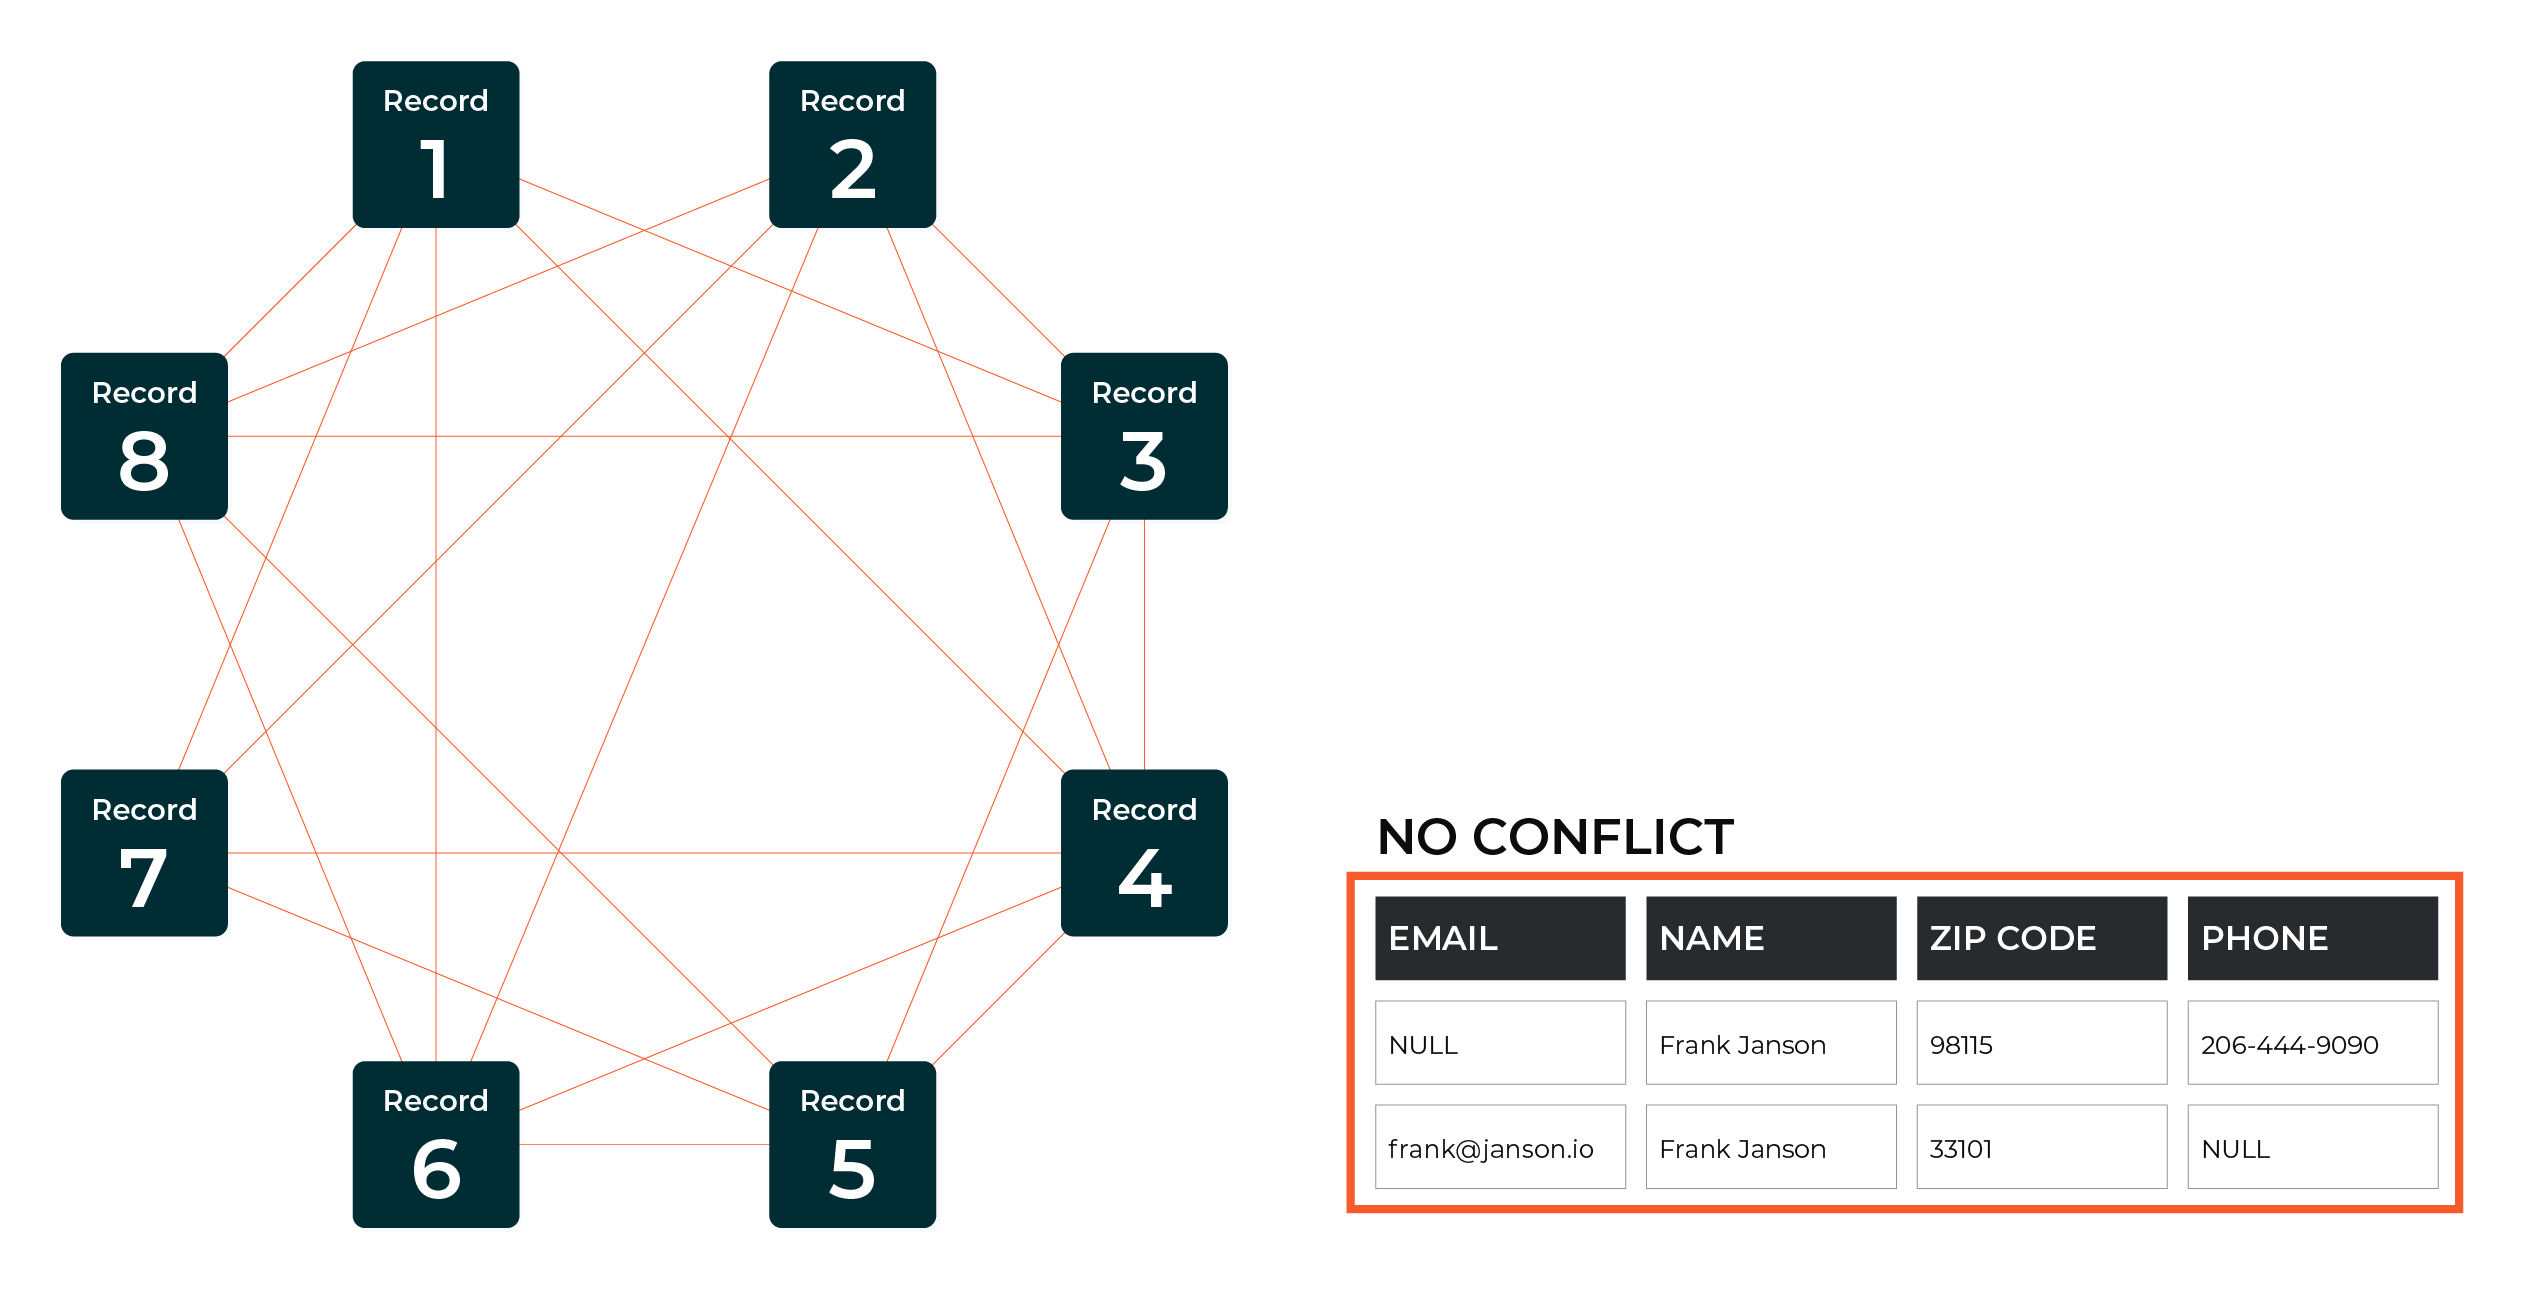
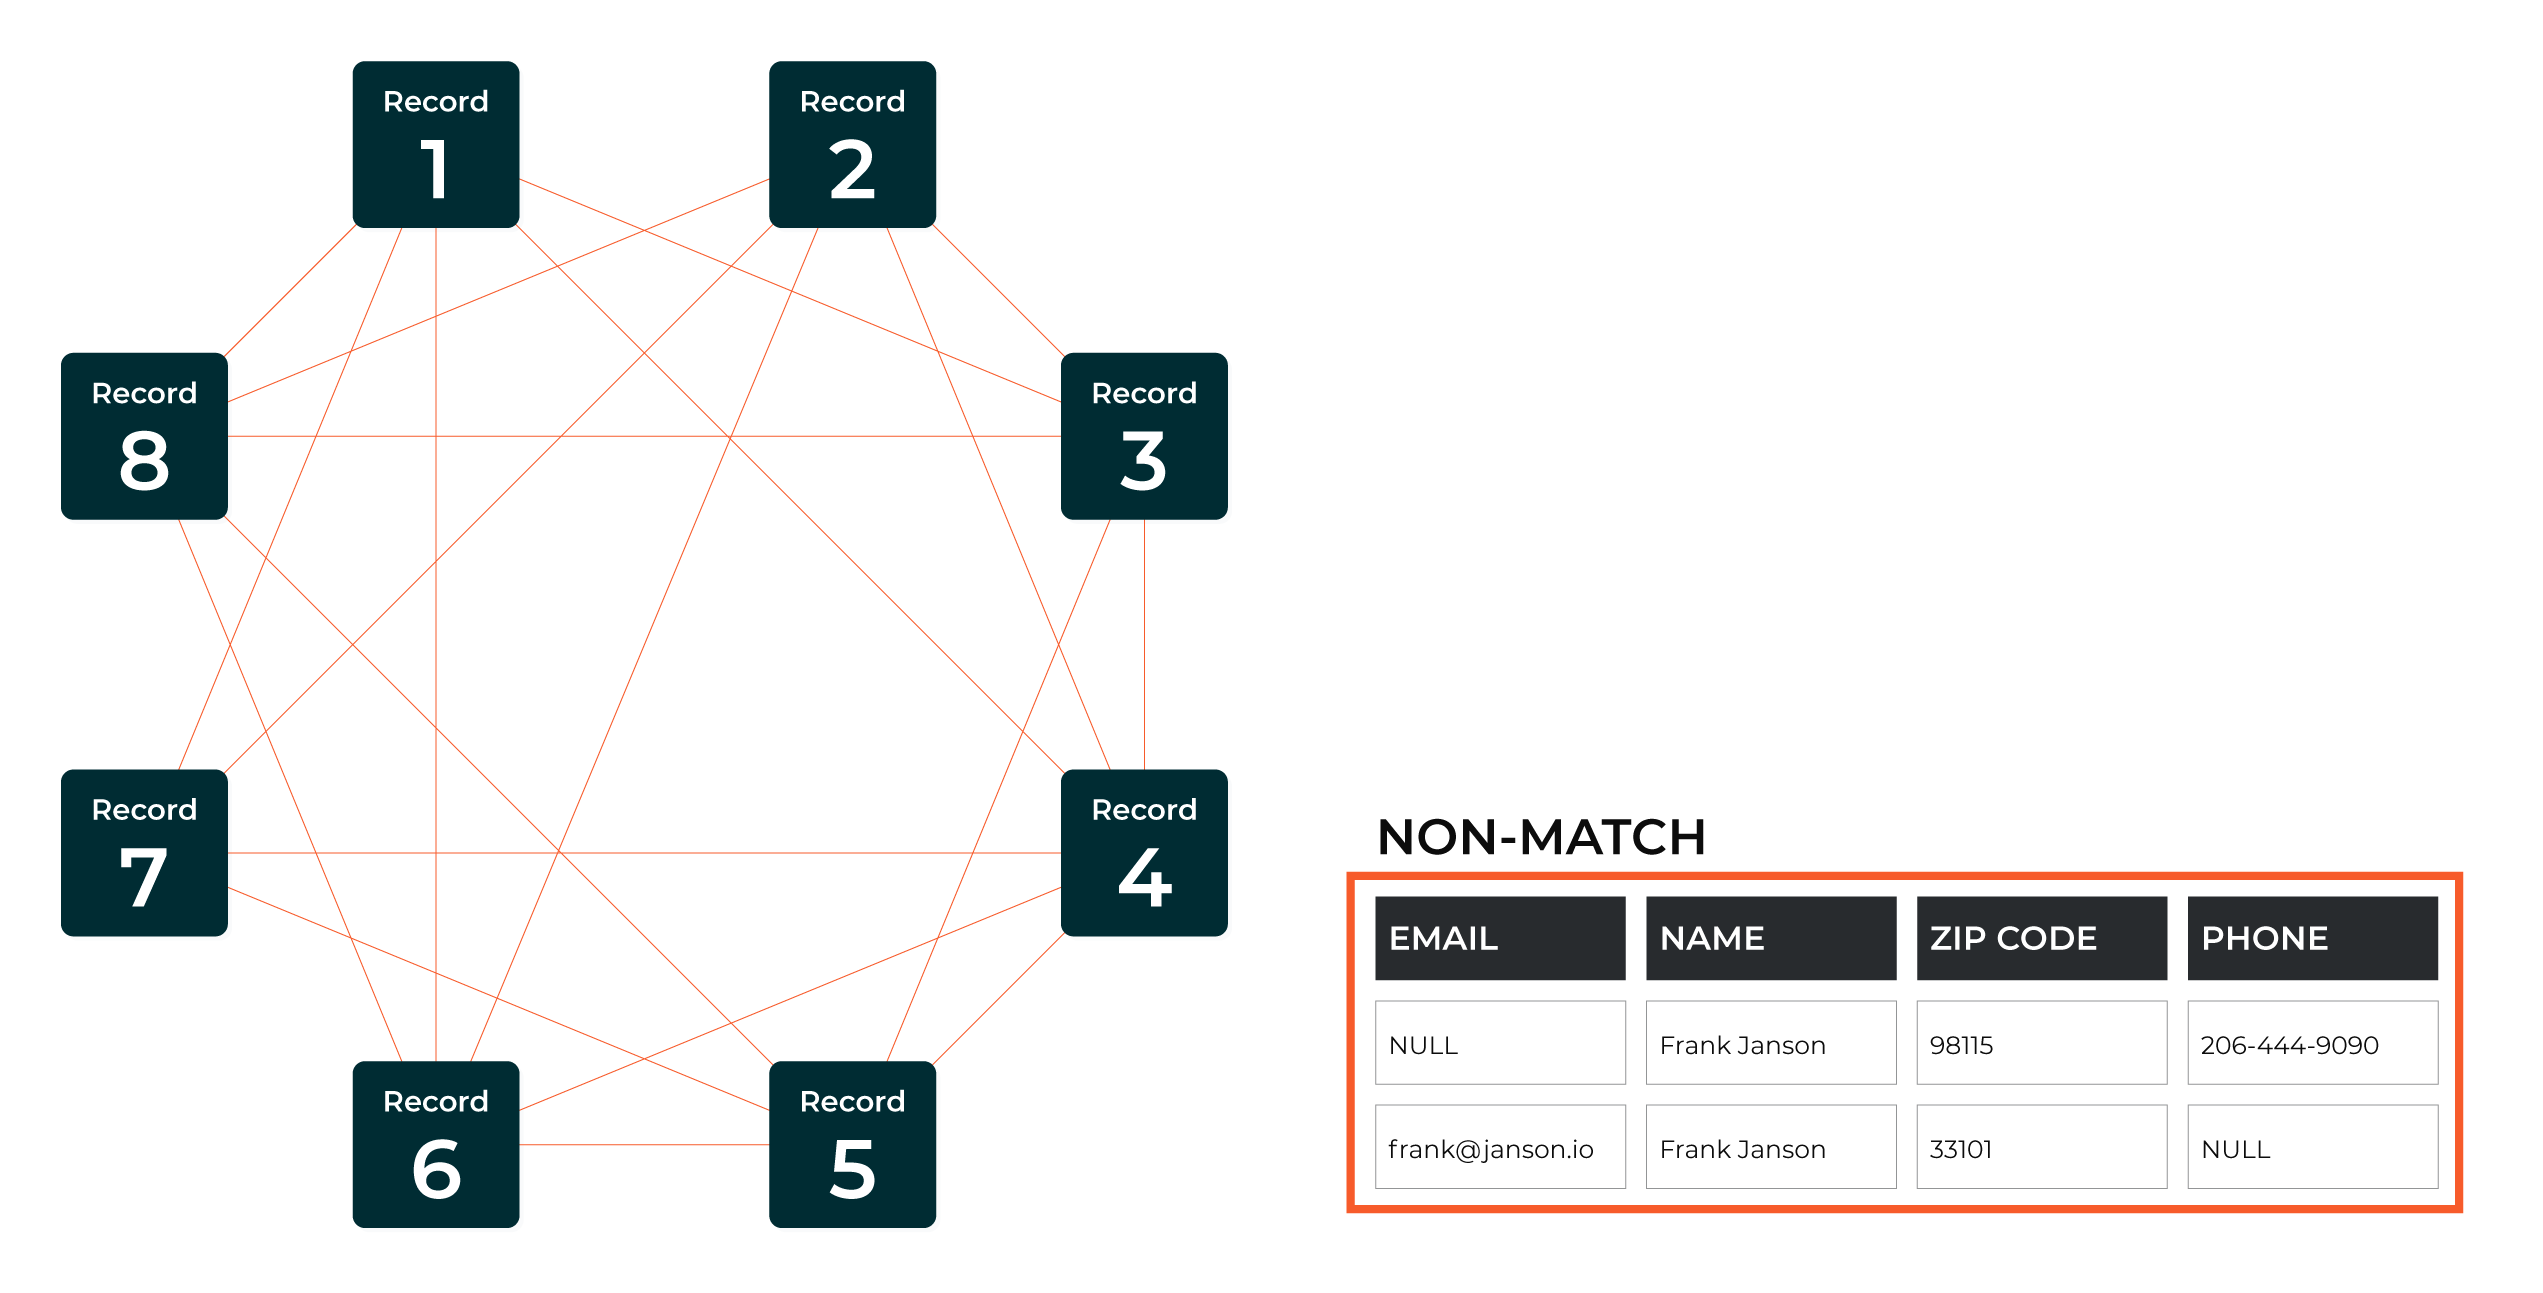
NO CONFLICT >> NON-MATCH

diff --git a/amperity_reference/source/_templates/nav-docs.html b/amperity_reference/source/_templates/nav-docs.html
@@ -5906,9 +5906,9 @@
                 "url": "/reference/stitch.html#weak-matches"
               },
               {
-                "title": "No conflicts",
+                "title": "Non-match",
                 "hasSubItems": false,
-                "url": "/reference/stitch.html#no-conflicts"
+                "url": "/reference/stitch.html#non-match"
               },
               {
                 "title": "All connections",

diff --git a/shared/terms.rst b/shared/terms.rst
@@ -386,15 +386,6 @@ The |ext_aws_serverless_repository| is a managed repository for pre-built server
 .. term-amazon-serverless-repository-end
 
 
-**Amp360**
-
-.. term-amp360-start
-
-Amp360 merges behavioral, contextual, and transactional data into useful profiles, even when your data sources are incomplete, inconsistent, or lack linking keys.
-
-.. term-amp360-end
-
-
 **Amp360 User** (policy)
 
 .. term-amp360-user-policy-start
@@ -518,15 +509,6 @@ TBD
 .. term-amperity-lakehouse-end
 
 
-**AmpID**
-
-.. term-ampid-start
-
-AmpID resolves customer identities across all of your customer records by applying proprietary machine learning algorithms.
-
-.. term-ampid-end
-
-
 **AmpID User** (policy)
 
 .. term-ampid-policy-start
@@ -534,15 +516,6 @@ AmpID resolves customer identities across all of your customer records by applyi
 .. TODO: There is no AmpID User policy
 
 .. term-ampid-policy-end
-
-
-**AmpIQ**
-
-.. term-ampiq-start
-
-AmpIQ enables customer-centric marketing campaigns. Use segment insights to build high-value segments. Use those segments to add audiences to campaigns. Build campaigns that send those audiences to any combination of downstream marketing workflows.
-
-.. term-ampiq-end
 
 
 **AmpIQ User** (policy)
@@ -1969,15 +1942,6 @@ A Delta table is a table in a Delta Lake, which is an optimized storage layer th
 .. term-databricks-delta-table-end
 
 
-**DataGrid**
-
-.. term-datagrid-start
-
-DataGrid pulls all your customer data from any source--online, offline, historical, streaming--without requiring schema planning or ETL. DataGrid sends results of any size and type to any of your downstream applications and workflows.
-
-.. term-datagrid-end
-
-
 **DataGrid Operator** (policy)
 
 .. term-datagrid-operator-policy-start
@@ -2003,7 +1967,7 @@ The **DataGrid Administrator** policy allows full access to Amperity, including 
 
 .. term-datagrid-administrator-policy-assign-start
 
-Assign this policy to users who will make configuration changes using a sandbox, after which those changes will be reviewed by a user assigned the **Allow sandbox administration** policy. A DataGrid Administrator has visibility into *all resource groups*.
+Assign this policy to users who will make configuration changes using a sandbox, after which those changes will be reviewed by a user assigned the **Allow sandbox administration** policy. An administrator has visibility into *all resource groups*.
 
 .. term-datagrid-administrator-policy-assign-end
 
@@ -3866,7 +3830,7 @@ A match category is a classifier that is applied by Amperity to an individual re
      - Amperity has moderate confidence that these records match, due to weak or fuzzy matches between highly unique customer attributes (email, phone, address).
    * - **Weak**
      - Amperity lacks confidence, but if asked to guess, Amperity would assert these records do belong to the same individual, because they match on non-unique customer attributes (name, state, zip code).
-   * - **No conflict**
+   * - **Non-match**
      - Amperity has high confidence that these records do NOT match, because core profile data is in conflict.
 
 .. term-match-category-end
@@ -4577,7 +4541,7 @@ A pairwise connection is a pair of matching records within a block that have an 
 
 A score is assigned to every pairwise connection. The score is measured in two parts, separated by a period.
 
-The first part--the record pair score--correlates to the match category, which is a machine learning classifier that is applied by Amperity to individual record pairs. The record pair score corresponds to the classification: 5 for exact matches, 4 for excellent matches, 3 for high matches, 2 for moderate matches, 1 for weak matches, and 0 for no conflicts.
+The first part--the record pair score--correlates to the match category, which is a machine learning classifier that is applied by Amperity to individual record pairs. The record pair score corresponds to the classification: 5 for exact matches, 4 for excellent matches, 3 for high matches, 2 for moderate matches, 1 for weak matches, and 0 for non-matches.
 
 The second part--the record pair strength--is used by Stitch to help determine the quality of the record pair score. This value appears in the Stitch report as a two decimal number. A record pair strength by itself is not a direct indicator of the quality of a pairwise connection score.
 
@@ -4840,7 +4804,7 @@ Predicted average order revenue represents the average value of each order a cus
 
 .. term-predicted-models-start
 
-Predictive models are a feature of AmpIQ that predict customer behavior, such as customer lifetime value (pCLV), churn propensity, product affinity, and lifecycle events.
+Predictive models are a feature of Amperity that predict customer behavior, such as customer lifetime value (pCLV), churn propensity, product affinity, and lifecycle events.
 
 .. term-predicted-models-end
 
@@ -4849,7 +4813,7 @@ Predictive models are a feature of AmpIQ that predict customer behavior, such as
 
 .. term-predictive-models-start
 
-A predictive model is a feature of AmpIQ that predict customer behavior, such as predicted customer lifetime value (predicted CLV), churn propensity, product affinity, and lifecycle events.
+A predictive model is a feature of Amperity that predict customer behavior, such as predicted customer lifetime value (predicted CLV), churn propensity, product affinity, and lifecycle events.
 
 .. term-predictive-models-end
 
@@ -6072,7 +6036,7 @@ Standard tables include:
 * **Unified Scores**
 * **Unified Transactions**
 
-along with tables that are associated with predictive modeling and AmpIQ, such as **Predicted CLV Attributes**.
+along with tables that are associated with predictive modeling, such as **Predicted CLV Attributes**.
 
 .. term-standard-database-table-list-end
 
@@ -6793,7 +6757,7 @@ The **Unified Product Catalog** table contains a row for every item in your prod
 
 .. term-unified-product-catalog-table-with-ampiq-start
 
-.. important:: The **Unified Product Catalog** table represents the taxonomy for your products and brands. Attributes are added to the **Unified Product Catalog** table when **pc/** semantic tags are applied to your data sources. All **pc/** semantic tags are optional. Use the ones that best define the shape of your product catalog and best describe the individual items within it. The product ID is used as an input to AmpIQ predictive modeling.
+.. important:: The **Unified Product Catalog** table represents the taxonomy for your products and brands. Attributes are added to the **Unified Product Catalog** table when **pc/** semantic tags are applied to your data sources. All **pc/** semantic tags are optional. Use the ones that best define the shape of your product catalog and best describe the individual items within it. The product ID is used as an input to predictive modeling.
 
 .. term-unified-product-catalog-table-with-ampiq-end
 
@@ -7055,7 +7019,7 @@ The visual **Query Editor** is a user interface that allows creating queries usi
 
 .. term-visual-segment-editor-start
 
-The **Segment Editor** is the user interface for building segments in AmpIQ. This editor uses a series of drop-downs, picklists, conditions, and values to define an attribute profile. Refresh segment insights to see how many customers match the profile, and then activate it as a segment.
+The **Segment Editor** is the user interface for building segments. This editor uses a series of drop-downs, picklists, conditions, and values to define an attribute profile. Refresh segment insights to see how many customers match the profile, and then activate it as a segment.
 
 .. term-visual-segment-editor-end
 

diff --git a/amperity_reference/source/stitch.rst b/amperity_reference/source/stitch.rst
@@ -601,7 +601,7 @@ The remaining matching pairs that scored above threshold remain in groups. The f
 
 .. stitch-initial-scoring-note-start
 
-.. note:: Initial scoring uses the same scoring method as :ref:`pairwise comparison <stitch-pairwise-comparison>`, with exact, excellent, and high scores being "above threshold" and moderate, weak, and no conflict scores being "below threshold". The individual scoring methods are covered in greater detail in the following section about pairwise comparisons.
+.. note:: Initial scoring uses the same scoring method as :ref:`pairwise comparison <stitch-pairwise-comparison>`, with exact, excellent, and high scores being "above threshold" and moderate, weak, and non-matching scores being "below threshold". The individual scoring methods are covered in greater detail in the following section about pairwise comparisons.
 
 .. stitch-initial-scoring-note-end
 
@@ -863,24 +863,24 @@ This example shows a weak match between two records.
 
 .. _stitch-pairwise-comparison-none:
 
-No conflicts
+Non-match
 ++++++++++++++++++++++++++++++++++++++++++++++++++
 
 .. stitch-pairwise-comparison-none-start
 
-A no conflict score is applied to records in which core profile data between records does not match or when a separation key is present for both pairs and the associated values are conflicting.
+A non-matching score is applied to records in which core profile data between records does not match or when a separation key is present for both pairs and the associated values are conflicting.
 
 .. stitch-pairwise-comparison-none-end
 
 .. image:: ../../images/howitworks-stitch-pairwise-07-none.png
    :width: 600 px
-   :alt: No conflicts between two records.
+   :alt: Non-matching scores between two records.
    :align: left
    :class: no-scaled-link
 
 .. stitch-pairwise-comparison-none-diagram-context-start
 
-This example shows no conflicts between two records.
+This example shows non-matching scores between two records.
 
 .. stitch-pairwise-comparison-none-diagram-context-end
 
@@ -892,7 +892,7 @@ All connections
 
 .. stitch-pairwise-comparison-all-start
 
-After pairwise comparisons are completed and scored, the connections that scored below threshold (moderate, weak, and no conflict) are dropped. What remains is a group of records that identifies a unique person and to which an Amperity ID is assigned.
+After pairwise comparisons are completed and scored, the connections that scored below threshold (moderate, weak, and non-matching) are dropped. What remains is a group of records that identifies a unique person and to which an Amperity ID is assigned.
 
 .. stitch-pairwise-comparison-all-end
 

diff --git a/amperity_datagrid/source/table_stitch_scores.rst b/amperity_datagrid/source/table_stitch_scores.rst
@@ -51,7 +51,7 @@ Use a query similar to the following to compare scores for two records:
    WHERE source1 = 'Table_Name' AND pk1 = '123abc456def'
    AND source2 = 'Table_Name' AND pk1 = '789ghi012jkl'
 
-where the values of **pk1** and **pk2** are the Amperity IDs for the records you want to compare.
+where the values of **pk1** and **pk2** are for the records you want to compare.
 
 .. table-stitch-scores-use-with-stitch-qa-compare-records-end
 
